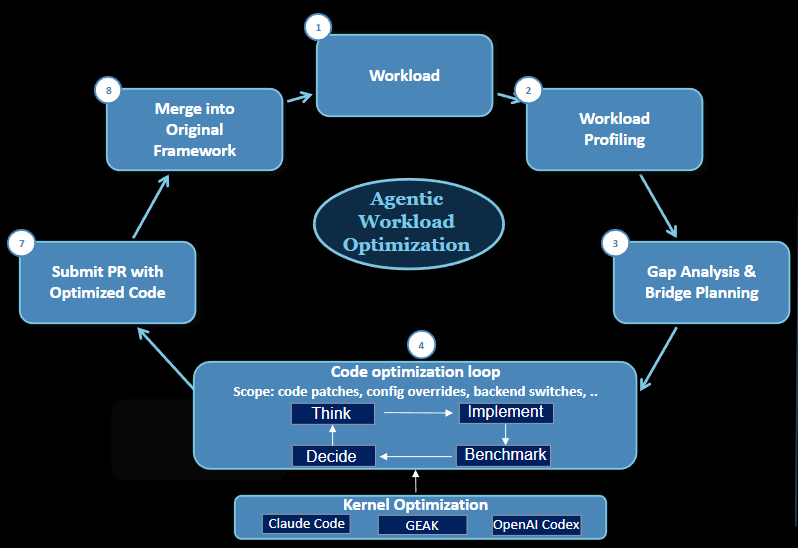
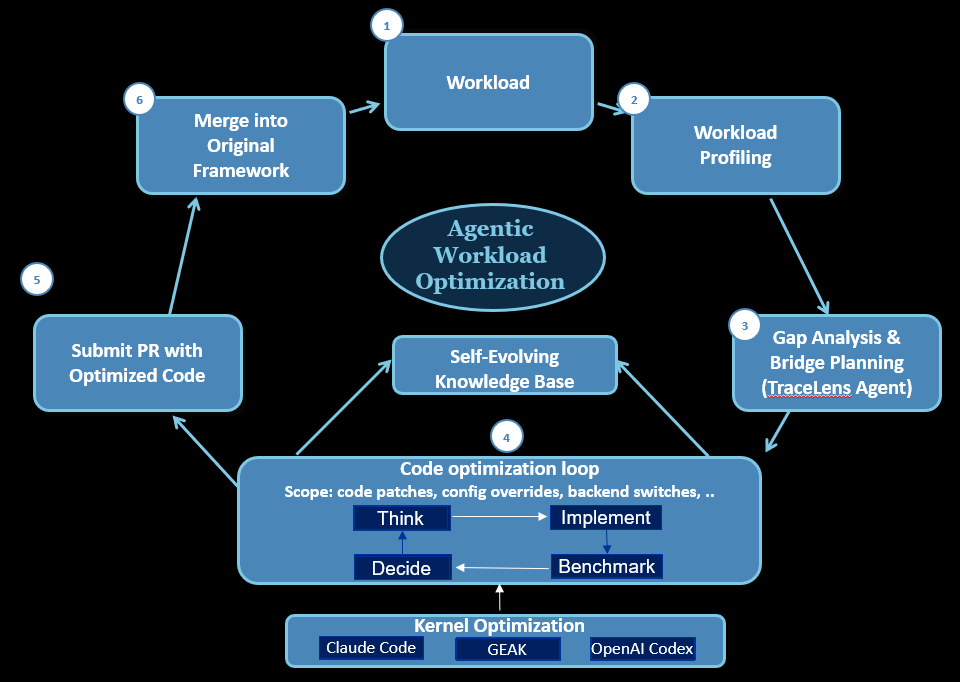
Update architecture diagram in README

Changed region(s): [[0.0, 0.0, 1.0, 0.9927]]

diff --git a/README.md b/README.md
@@ -2,7 +2,7 @@
 
 An agentic system that autonomously optimizes LLM inference and training on AMD GPUs. Hyperloom treats optimization as a **search problem**: given a workload, it builds a tree of candidate optimizations — backend swaps, server parameters, GEMM tuning, kernel rewrites, parallelism configs — scores each by expected gain and cost, then explores depth-first, always measuring against the real workload. Simply provide your workload and the agent delivers a fully optimized codebase — profiling against peak hardware potential, identifying bottlenecks, and iteratively rewriting code to maximize throughput on AMD GPUs, so the team gets production-ready optimized code.
 
-<p align="center"><img width="500" height="400" alt="HyperLoom Architecture" src="slides/hyperloom_loop.png" /></p>
+<p align="center"><img width="600" alt="HyperLoom Architecture" src="slides/hyperloom_loop.png" /></p>
 
 Block 1-3 - Workload understanding and profiling: Submit your workload as the starting point for the agent to understand your codebase, profile using [TraceLens Agentic Analysis](https://github.com/AMD-AGI/TraceLens-internal/) (relies on [Magpie](https://github.com/AMD-AGI/Magpie) for trace collection), capture bottlenecks and roofline targets.
 
